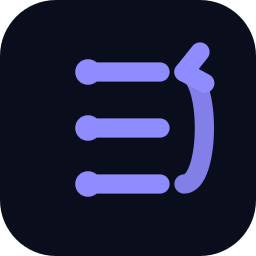
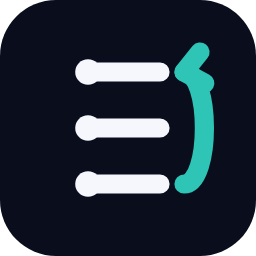
New mark (teal loop), neutral dark theme, plainer copy

Changed region(s): [[0.2812, 0.1562, 0.8438, 0.7812], [0.2812, 0.4375, 0.6875, 0.5625]]

diff --git a/src/pages/index.tsx b/src/pages/index.tsx
@@ -34,22 +34,22 @@ type Tile = {title: string; body: string};
 type Row = {problem: string; prompt: string; devloop: string};
 
 const WHY: Row[] = [
-  {problem: 'Deciding what to build', prompt: 'What to build, how, and the code come out in one pass, so a misread requirement is already code.', devloop: '/spec and /plan settle what and how first, and you approve the reviewed plan before any code.'},
-  {problem: 'Checking the work', prompt: 'The context that wrote the code says it works. That is a self-report.', devloop: 'The plan and the code are reviewed in a context that did not write them.'},
-  {problem: 'Keeping the plan', prompt: 'A long session degrades and a resumed one starts cold, so the plan is lost.', devloop: 'The plan lives in a JSON tracker that survives a reset.'},
+  {problem: 'Deciding what to build', prompt: 'What to build, how, and the code are decided in one pass, so a misread requirement goes straight into the code.', devloop: '/spec and /plan settle what and how first, and you approve the reviewed plan before any code.'},
+  {problem: 'Checking the work', prompt: 'The agent that wrote the code also checks it.', devloop: 'The plan and the code are reviewed in a context that did not write them.'},
+  {problem: 'Keeping the plan', prompt: 'The plan exists only in the session, so a long or restarted session loses it.', devloop: 'The plan lives in a JSON tracker that survives a reset.'},
   {problem: 'Proving it works', prompt: 'An agent can report done without a test that proves it.', devloop: 'Chunks with logic start from a failing test, and the code review checks each acceptance criterion against a test.'},
-  {problem: 'Keeping the rules', prompt: 'The rules live in your head and drift from run to run.', devloop: 'Your project rules live in .devloop/config.md and are read on every run.'},
+  {problem: 'Keeping the rules', prompt: 'You repeat your project rules in each prompt.', devloop: 'Your project rules live in .devloop/config.md and are read on every run.'},
 ];
 
 const LENSES: Tile[] = [
   {title: 'Conformance', body: 'The change does what the plan says. Each acceptance criterion is confirmed by a quoted test, plausible (code, no test), or refuted.'},
   {
     title: 'Correctness, 5 angles',
-    body: 'Line-by-line diff scan, removed-behavior auditor, cross-file caller and callee tracer, language-pitfall specialist, wrapper and proxy correctness.',
+    body: 'Reads every changed line, checks what removed code used to guarantee, follows callers and callees, and looks for language pitfalls and wrapper mistakes.',
   },
   {
     title: 'Cleanup, 5 angles',
-    body: 'Reuse, simplification, efficiency, altitude, and maintainability: stale docs, hard-coded environment values, dependency and versioning rules, error messages.',
+    body: 'Reuse, simpler code, wasted work, whether a fix is at the right depth, and maintainability: stale docs, hard-coded environment values, dependency rules, error messages.',
   },
   {
     title: 'Conventions, in every lens',
@@ -132,20 +132,6 @@ function Hero(): ReactNode {
   );
 }
 
-function Statement(): ReactNode {
-  return (
-    <section className="dl-statement">
-      <div className="container">
-        <Heading as="h2">Reviewed by agents that didn’t write the code.</Heading>
-        <p>
-          The plan review and the code review run in a context that did not write the plan or the code. You approve
-          the result at two checkpoints.
-        </p>
-      </div>
-    </section>
-  );
-}
-
 function NodeCard({n}: {n: Node}): ReactNode {
   return (
     <li className={`dl-node dl-node--${n.kind}`}>
@@ -202,11 +188,8 @@ function Why(): ReactNode {
     <section className="dl-section dl-section--mist">
       <div className="container">
         <Heading as="h2" className="dl-heading">
-          Why not a single prompt?
+          One prompt or devloop
         </Heading>
-        <p className="dl-lead">
-          A coding agent can build a feature from one prompt. One prompt doesn’t give you the steps around the code.
-        </p>
         <table className="dl-compare">
           <thead>
             <tr>
@@ -238,8 +221,8 @@ function Review(): ReactNode {
           The code review: three lenses
         </Heading>
         <p className="dl-lead">
-          <code>review-impl</code> reads the diff in a fresh context, read-only. Both reviews use one list of six
-          concerns: does the change do what was asked, does it hold up, and can it be maintained.
+          <code>review-impl</code> reads the diff in a fresh context and changes nothing. Both reviews check the same
+          six concerns.
         </p>
         <div className="dl-tiles">
           {LENSES.map((t) => (
@@ -250,11 +233,9 @@ function Review(): ReactNode {
           ))}
         </div>
         <p className="dl-more">
-          The correctness lens lists every candidate defect, then a verify pass keeps the confirmed and plausible ones.
-          Each finding says whether the change introduced it; a pre-existing bug is reported but doesn’t fail the gate.
-          A small diff gets one reviewer with every lens, a larger one an agent per lens, and each report ends with one
-          JSON list of findings. To review a diff with no plan, such as a hotfix, give review-impl the diff range and
-          say there is no tracker.
+          Each finding is checked against the code before it is reported, and says whether this change introduced it.
+          A bug that was already there is reported but doesn’t fail the review. To review a diff with no plan, give
+          review-impl the diff range.
         </p>
       </div>
     </section>
@@ -352,7 +333,6 @@ export default function Home(): ReactNode {
       description="A test-driven development plugin for Claude Code and Codex, with review agents that check the plan before coding and the diff before commit.">
       <Hero />
       <main>
-        <Statement />
         <Loop />
         <Why />
         <Review />

diff --git a/src/css/custom.css b/src/css/custom.css
@@ -44,16 +44,16 @@
   --ifm-color-primary-lighter: #c4c3ff;
   --ifm-color-primary-lightest: #dddcff;
 
-  /* The hero and the loop are the darkest; the page sits one step lighter, so each band reads. */
-  --dl-slate: #080b16;
-  --dl-mist: #181d38;
-  --dl-paper: #11152a;
-  --dl-ink: #eceefa;
-  --dl-soft: #b6bad3;
-  --dl-line: rgba(255, 255, 255, 0.09);
+  /* Neutral greys, darkest for the hero and the loop, so the violet and teal stay the only colour. */
+  --dl-slate: #0f1113;
+  --dl-mist: #1d2024;
+  --dl-paper: #16181b;
+  --dl-ink: #ececee;
+  --dl-soft: #b4b7bd;
+  --dl-line: rgba(255, 255, 255, 0.08);
 
-  --ifm-background-surface-color: #181d38;
-  --ifm-navbar-background-color: rgba(17, 21, 42, 0.85);
+  --ifm-background-surface-color: #1d2024;
+  --ifm-navbar-background-color: rgba(22, 24, 27, 0.85);
 }
 
 html { scroll-behavior: smooth; }
@@ -288,3 +288,12 @@ a:focus-visible, button:focus-visible, .navbar__link:focus-visible, .footer__lin
 [data-theme='dark'] .dl-node--you h3 { color: var(--dl-on-accent); }
 [data-theme='dark'] .dl-node--you .dl-node__kind, [data-theme='dark'] .dl-node--you p { color: rgba(10, 14, 28, 0.78); }
 [data-theme='dark'] .dl-node--agent { background: rgba(143, 140, 255, 0.14); }
+
+[data-theme='dark'] .dl-hero__term { background: #0a0b0d; border-color: #2a2d33; }
+[data-theme='dark'] .dl-term__bar i { background: #2a2d33; }
+[data-theme='dark'] .dl-term__or { border-top-color: #24272c; }
+[data-theme='dark'] .dl-node:not(.dl-node--you) { border-color: rgba(255, 255, 255, 0.14); background: rgba(255, 255, 255, 0.03); }
+[data-theme='dark'] .dl-node.dl-node--agent { border-color: var(--dl-accent); background: rgba(143, 140, 255, 0.1); }
+[data-theme='dark'] .dl-back span { background: var(--dl-slate); }
+/* The hero and the loop share the ink, so a hairline marks where the hero ends. */
+main > .dl-section--ink:first-child { border-top: 1px solid rgba(255, 255, 255, 0.1); }

diff --git a/docusaurus.config.ts b/docusaurus.config.ts
@@ -10,6 +10,7 @@ const ORG = {'@type': 'Organization', '@id': 'https://onekash.org/#org', name: '
 
 // Code blocks on the hero's ink, so commands read as part of the logo's palette.
 const codeTheme = {...themes.palenight, plain: {...themes.palenight.plain, backgroundColor: '#0d1124'}};
+const darkCodeTheme = {...codeTheme, plain: {...codeTheme.plain, backgroundColor: '#0f1113'}};
 
 const config: Config = {
   title: 'devloop',
@@ -83,7 +84,7 @@ const config: Config = {
       {name: 'twitter:image:alt', content: 'devloop: spec, plan and build, with independent review. The install command and the devloop mark.'},
     ],
     colorMode: {respectPrefersColorScheme: true},
-    prism: {theme: codeTheme, darkTheme: codeTheme, additionalLanguages: ['bash', 'json', 'markdown']},
+    prism: {theme: codeTheme, darkTheme: darkCodeTheme, additionalLanguages: ['bash', 'json', 'markdown']},
     navbar: {
       title: 'devloop',
       logo: {alt: 'devloop logo', src: 'img/icon-rounded.png'},
